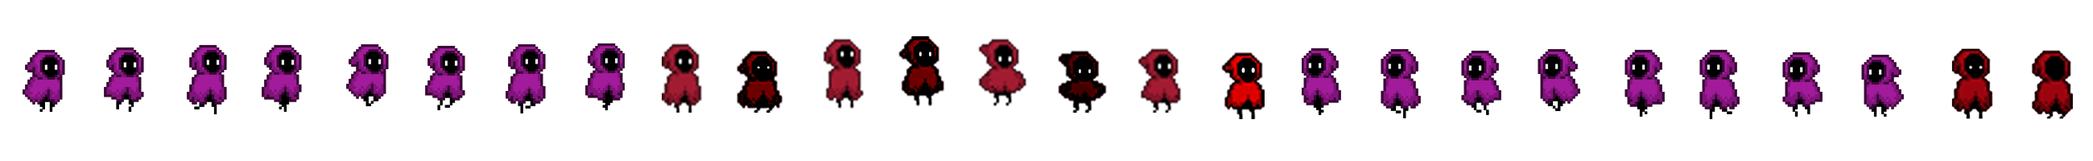
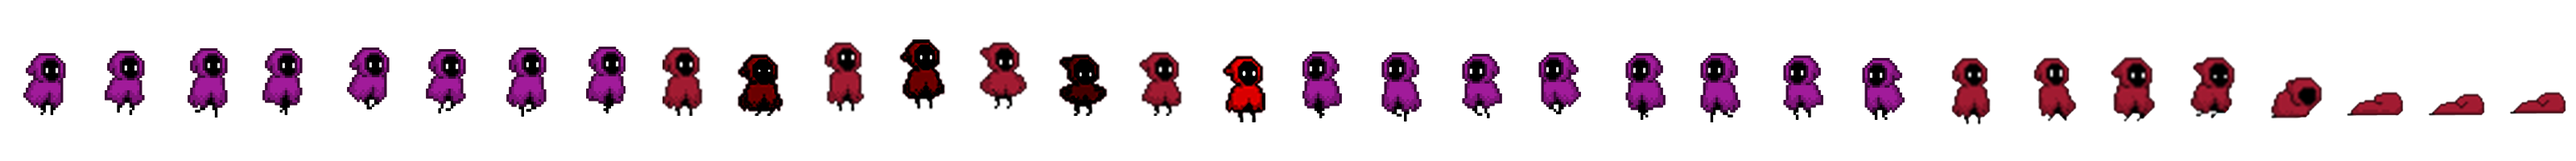
Added death animation for the base enemy

Changed region(s): [[0.0, 0.21, 0.9969, 0.75]]

diff --git a/source/core/src/main/com/csse3200/game/components/DeathComponent.java b/source/core/src/main/com/csse3200/game/components/DeathComponent.java
@@ -2,11 +2,12 @@ package com.csse3200.game.components;
 
 import com.badlogic.gdx.Gdx;
 import com.badlogic.gdx.physics.box2d.Fixture;
-import com.csse3200.game.physics.PhysicsLayer;
 import com.csse3200.game.physics.components.HitboxComponent;
 
+import java.util.Timer;
+import java.util.TimerTask;
+
 public class DeathComponent extends Component {
-    private short targetLayer;
     private CombatStatsComponent combatStats;
     private HitboxComponent hitboxComponent;
 
@@ -27,7 +28,16 @@ public class DeathComponent extends Component {
             return;
         }
         if (combatStats.isDead()) {
-            Gdx.app.postRunnable(entity::dispose);
+            entity.getEvents().trigger("dispose");
+            // Schedule a task to execute entity::dispose after a delay
+            Timer timer = new Timer();
+            timer.schedule(new TimerTask() {
+                @Override
+                public void run() {
+                    Gdx.app.postRunnable(entity::dispose);
+                }
+            }, 2000); // 10 milliseconds delay
+
         }
     }
 }

diff --git a/source/core/src/main/com/csse3200/game/entities/factories/PlayerFactory.java b/source/core/src/main/com/csse3200/game/entities/factories/PlayerFactory.java
@@ -1,6 +1,7 @@
 package com.csse3200.game.entities.factories;
 
 import com.csse3200.game.components.CombatStatsComponent;
+import com.csse3200.game.components.TouchAttackComponent;
 import com.csse3200.game.components.player.InteractionControllerComponent;
 import com.csse3200.game.components.player.InventoryComponent;
 import com.csse3200.game.components.player.PlayerActions;
@@ -46,6 +47,7 @@ public class PlayerFactory {
             .addComponent(new InventoryComponent(stats.gold))
             .addComponent(inputComponent)
             .addComponent(new PlayerStatsDisplay())
+            .addComponent(new TouchAttackComponent(PhysicsLayer.NPC)) // TODO: Remove this when we merge to main
             .addComponent(new InteractionControllerComponent());
 
     PhysicsUtils.setScaledCollider(player, 0.6f, 0.3f);

diff --git a/source/core/src/main/com/csse3200/game/components/npc/GhostAnimationController.java b/source/core/src/main/com/csse3200/game/components/npc/GhostAnimationController.java
@@ -18,12 +18,12 @@ public class GhostAnimationController extends Component {
     entity.getEvents().addListener("chaseStart", this::animateChase);
     entity.getEvents().addListener("wander_left", this::animateWanderLeft);
     entity.getEvents().addListener("standing", this::animateWanderStand);
+    entity.getEvents().addListener("dispose", this::animateDeath);
   }
 
   void animateWander() {
     animator.startAnimation("float");
   }
-
   void animateChase() {
     animator.startAnimation("angry_float");
   }
@@ -32,6 +32,9 @@ public class GhostAnimationController extends Component {
   }
   void animateWanderStand() {
     animator.startAnimation("stand");
+  }
+  void animateDeath() {
+    animator.startAnimation("death");
   }
 
 }

diff --git a/source/core/src/main/com/csse3200/game/entities/factories/EnemyFactory.java b/source/core/src/main/com/csse3200/game/entities/factories/EnemyFactory.java
@@ -98,9 +98,8 @@ public class EnemyFactory {
       }
     }
 
-    TextureAtlas atlas = ServiceLocator.getResourceService().getAsset(config.atlas, TextureAtlas.class);
-    TextureAtlas atlasCopy = atlas;
-    animator = new AnimationRenderComponent(atlasCopy);
+    TextureAtlas atlas = new TextureAtlas(config.atlas);
+    animator = new AnimationRenderComponent(atlas);
 
 
     Entity enemy =
@@ -121,6 +120,7 @@ public class EnemyFactory {
     animator.addAnimation("angry_float", 0.1f, Animation.PlayMode.LOOP);
     animator.addAnimation("left",0.2f,Animation.PlayMode.LOOP);
     animator.addAnimation("stand",0.3f,Animation.PlayMode.LOOP);
+    animator.addAnimation("death", 0.2f, Animation.PlayMode.LOOP);
 
 
     enemy
